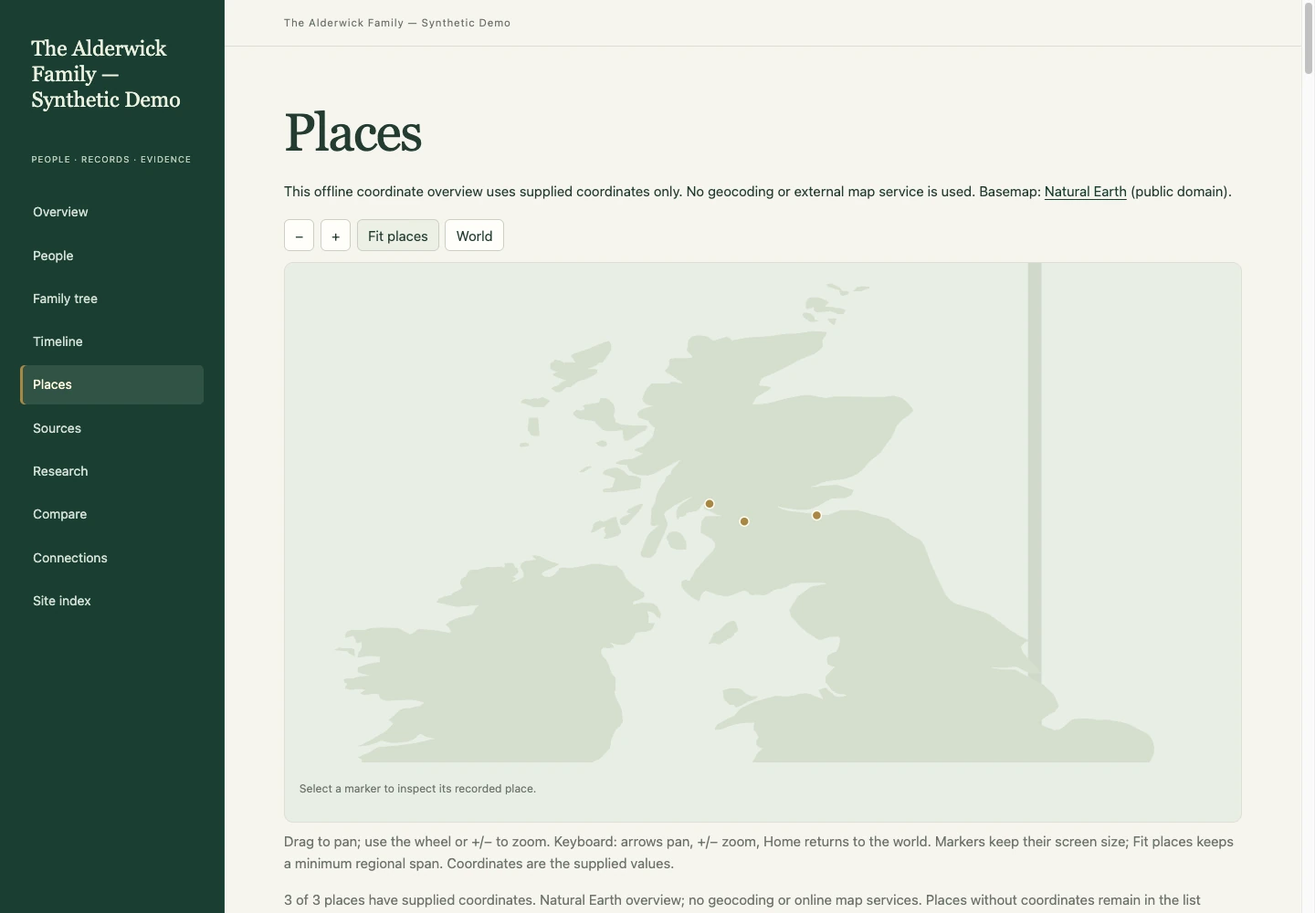
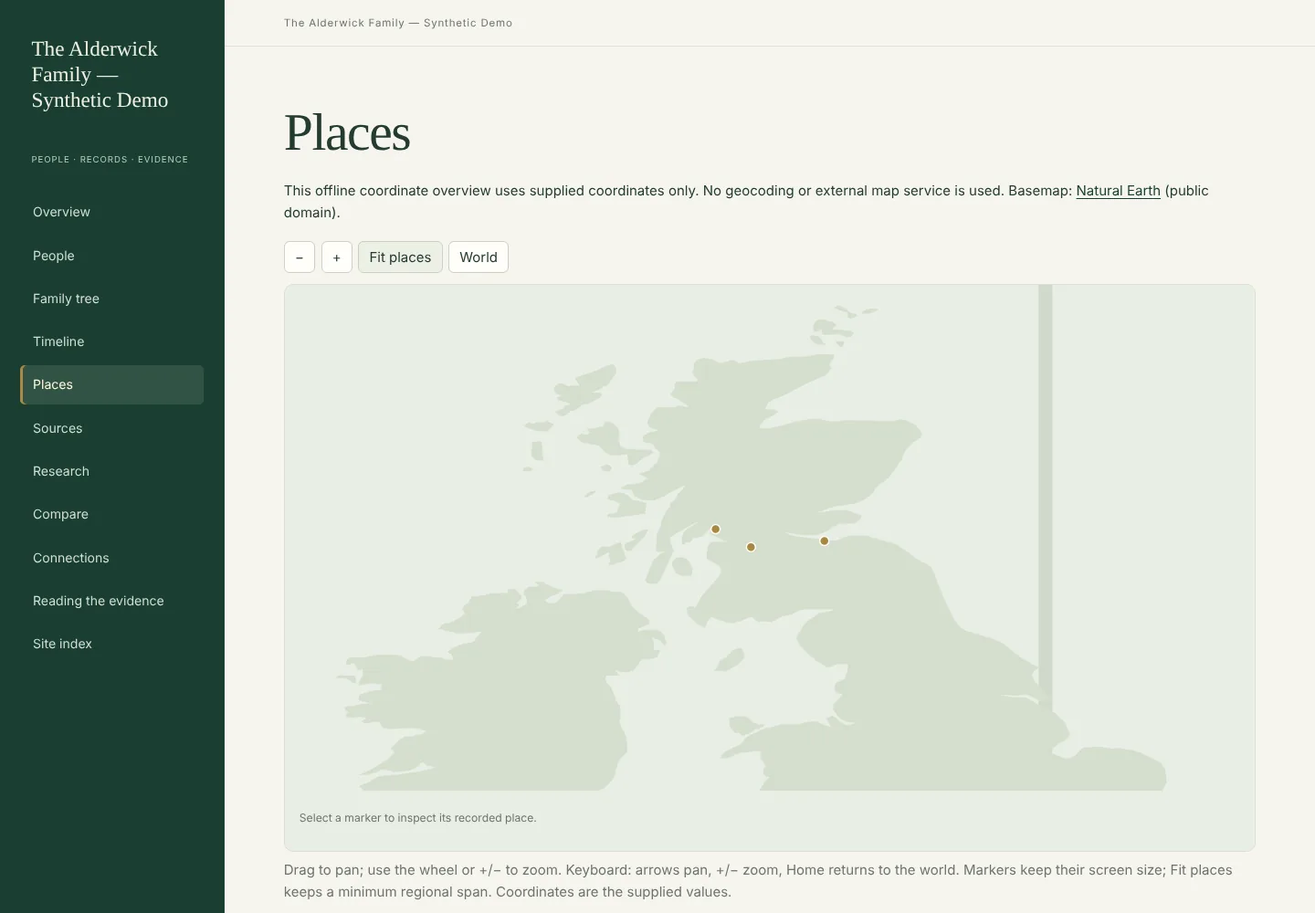
docs: describe 0.3.0 imports, outputs and screenshots
Document encodings, parent roles, identifiers, the --update/--replace
recovery path, the approximate-date publication margin and the new
site routes and downloads. Refresh README screenshots from the
corrected fictional demo and add dossier and evidence-guide views. CI
now imports a fictional GEDCOM with the installed wheel and checks
that the source distribution ships examples and images. Version 0.3.0.

Claude-Session: https://claude.ai/code/session_01XeMQC8PZDPeMtLwTfRoNKi

diff --git a/docs/imports.md b/docs/imports.md
@@ -1,6 +1,6 @@
 # Importing a tree
 
-The high-level `genealogy import FILE` command accepts an explicitly selected local file, at most 32 MiB, encoded as UTF-8 (a UTF-8 BOM is accepted). `.ged` and `.gedcom` select GEDCOM; `.json` selects OneTree. Use `--format gedcom` or `--format one-tree` when the extension is different.
+`genealogy import FILE` accepts one explicitly selected local file of at most 32 MiB. `.ged` and `.gedcom` select GEDCOM; `.json` selects OneTree. Use `--format gedcom` or `--format one-tree` when the extension is different.
 
 ```sh
 genealogy init my-family --name "Family research"
@@ -8,60 +8,75 @@ genealogy --project my-family import /path/to/tree.ged --publish-deceased
 genealogy --project my-family build
 ```
 
-Imports preserve the original bytes in `private/imports/` with a SHA-256 identity, a bounded report, and private file permissions. The selected case is saved only after parsing and reference validation succeed. Errors do not replace an existing valid case. Different inputs do not silently merge: use an empty project or explicitly choose `--replace`. Identical bytes and review choices are a no-op.
+Imports keep the original bytes in `private/imports/` with a SHA-256 identity, a bounded report and private file permissions. The case is saved only after parsing and reference validation succeed, so a failed import never replaces a valid case. Identical bytes with the same review choices are a no-op.
+
+## Importing again
+
+| You have | Command | What happens |
+| --- | --- | --- |
+| An empty project | `import FILE` | The tree becomes the case |
+| A newer export of the **same** tree, plus research you added | `import FILE --update` | Records created by earlier imports of that format are replaced; findings, questions, sources and other records you added are kept |
+| A different tree, or you want to start again | `import FILE --replace` | Every record in the case is replaced |
+
+Before `--update` or `--replace` changes anything, the previous case is copied to `private/imports/backups/<case>-<time>.json`. To recover, copy that file back to `cases/<case>.json`.
+
+`--update` refuses, and changes nothing, when research you kept would point at a person or record that the new export no longer contains, or when one of your record IDs collides with a newly imported ID. The error lists the references. Correct them, restore the person in your tree program, or use `--replace`. Edits made directly to previously imported records are replaced by the new export; put lasting research in your own records rather than editing imported ones. Identity across exports relies on the exporter keeping its record identifiers (`@I12@`, WikiTree IDs): an export that renumbers everyone is a different tree.
 
 ## GEDCOM
 
-The importer supports common GEDCOM 5.5/5.5.1 and GEDCOM 7 text structures; this is a useful subset, not a claim of complete standard conformance.
+The importer supports common GEDCOM 5.5, 5.5.1 and 7 structures. This is a useful subset, not a claim of complete conformance.
 
-- `INDI` names and aliases, sex, birth, death, burial, baptism/christening, residence and occupation fields supported by the parser.
-- `FAM` partners, child → parent relationships, and marriage events.
-- Event dates retained as supplied, including approximate/range qualifiers; supplied place labels and valid latitude/longitude.
-- Source records, source titles/repositories, individual and event citations with page locators.
-- Notes and continuation lines retained privately; source quotations/transcriptions are not automatically published.
-- Missing referenced people or sources are reported; unavailable relatives are not invented.
-- Privacy restrictions and explicit living flags remain protected. Imported relationship confidence stays unassessed.
+**Character sets.** The file's `HEAD.CHAR` declaration is followed: UTF-8 (with or without a byte-order mark), UNICODE/UTF-16 (with or without a BOM), ANSI (Windows-1252), ANSEL, ASCII, MACINTOSH and ISO-8859-1/-15. ANSEL combining accents are moved after their letters and normalised, so accented names are not garbled. A file that declares a legacy set but is actually valid UTF-8 is read as UTF-8 with a warning. Bytes that cannot be decoded stop the import with the line number; nothing is guessed. Windows (CRLF), Unix and classic Mac (CR) line endings all work.
 
-Use `--publish-deceased` only after reviewing the tree. Add `--publish-reviewed-sources` only after reviewing linked bibliographic metadata and locators. Neither option promotes full source text, private notes, or licensed records. See [publication rules](privacy.md).
+**People and names.** Each `NAME` keeps its displayed value and, separately, its given name and surname (`GIVN`/`SURN` or the `/surname/` slashes), so the site can browse by surname. Name types, `NICK`, `_MARN` married names, `_AKA` and `ROMN`/`FONE`/`TRAN` variants are kept. `SEX` is kept as an unassessed claim.
 
-ANSEL/legacy encodings, GEDZIP archives, embedded media, proprietary custom tags, and full standard-level round-trip fidelity are outside this release. Re-export as UTF-8 plain GEDCOM. The private original file retains unsupported content for later inspection.
+**Death evidence.** A `DEAT`, `BURI` or `CREM` record (other than `DEAT N`) marks the person deceased. `_LIVING Y` marks them living and wins over any other signal.
+
+**Events.** Birth, christening, baptism, death, burial, cremation, residence, occupation, census, emigration, immigration, naturalisation, probate, will, adoption, education, graduation, retirement, ordination, confirmation, title and generic `EVEN`/`FACT` events. Family events: marriage, banns, licence, contract, settlement, engagement, divorce and annulment. Dates are kept exactly as supplied, including `ABT`, `BET … AND …`, Julian `@#DJULIAN@` and dual years.
+
+**Families and parent roles.** `FAM` partners become one couple; each `CHIL` gets one parent link per partner. The nature of each link is kept rather than flattened: `FAMC.PEDI` (birth, adopted, foster, sealing), Family Tree Maker/Legacy `_FREL`/`_MREL` (Natural, Step, Adopted …) and `ADOP.FAMC`. A link with no stated nature is a recorded parent of unstated kind, not assumed to be biological. GEDCOM 7 `FAMC.STAT DISPROVEN` marks the link disproved and keeps it out of publication; `CHALLENGED`/`PROVEN` are kept as the tree's own mark.
+
+**Identifiers.** `_UID`, `UID`, `REFN` (with `TYPE`), `EXID`, `AFN`, `_FSFTID` (FamilySearch) and `WWW` are kept as private external identifiers.
+
+**Sources and citations.** `SOUR` records keep title, `AUTH` author, `PUBL` publication details, repository name (`REPO`, resolved through repository records) and call number. Citations keep the `PAGE` locator and `DATA.TEXT` quotation. A `QUAY` grade is recorded with its meaning in the private evidence assessment, never as this project's confidence.
+
+**Notes.** `NOTE` and GEDCOM 7 `SNOTE` (inline or shared) are kept privately and never published by the import review.
+
+**Repairs and diagnostics.** Some exporters, including WikiTree's, write raw line breaks inside long notes. A line that cannot be a GEDCOM line and follows text is kept as continued text, and the import reports how many lines were repaired. Missing referenced people or sources are reported and omitted; `@VOID@` pointers are treated as deliberately empty. Invalid coordinates are reported and dropped, never kept or guessed. Every structure the importer does not interpret is counted in a warning (for example `INDI._MILT×16`) and remains only in the private original file. Government identifiers such as `SSN`/`IDNO` are never imported.
+
+Outside this release: GEDZIP archives, embedded media (`OBJE`), source templates, `ASSO` associations, LDS ordinances and full round-trip fidelity. The private original file keeps them.
 
 ## OneTree JSON
 
-Recognised shapes include:
+Recognised shapes include `{"data": {"Profile-1": {...}}}` (the WikiTree OneTree export), a profile list, a dictionary keyed by profile ID, and a `people`/`relationships` container:
 
 ```json
 {
   "data": {
     "Example-1": {
-      "Name": "Example-1",
-      "Id": 101,
-      "FirstName": "Invented",
-      "LastNameAtBirth": "Example",
-      "BirthDate": "1800-01-01",
-      "DeathDate": "1880-01-01",
-      "BirthLocation": "Fictional Harbour",
-      "Privacy": 60,
-      "Father": 102
-    },
-    "Example-2": {
-      "Name": "Example-2",
-      "Id": 102,
-      "FirstName": "Another",
-      "LastNameAtBirth": "Example",
-      "DeathDate": "1840",
-      "Privacy": 60
+      "Name": "Example-1", "Id": 101, "FirstName": "Invented", "MiddleName": "Mae",
+      "LastNameAtBirth": "Example", "LastNameCurrent": "Married",
+      "BirthDate": "1800-00-00", "DeathDate": "1880-03-00",
+      "DataStatus": {"BirthDate": "guess", "Father": "10"},
+      "BirthLocation": "Fictional Harbour", "Privacy": 60, "Father": 102,
+      "Spouses": [{"Id": 103, "marriage_date": "1822-00-00", "marriage_location": "Invented Chapel"}]
     }
   }
 }
 ```
 
-A profile list, a dictionary keyed by profile ID, and a `people`/`relationships` container are also accepted. Provider numeric IDs resolve parent references to the same stable person identities. Imported spouses and children are reconciled without fabricating missing people. Name variants, vital dates/places, supplied coordinates, privacy flags and explicit relationship assessments are normalised where supported. Publication review resets imported relationship confidence to unassessed.
+- WikiTree `YYYY-00-00` placeholders become `YYYY` or `YYYY-MM`; `0000-00-00` means no date. `DataStatus` qualifiers are kept: guess → `ABT`, before → `BEF`, after → `AFT`.
+- `DataStatus` parent marks are kept as the tree's statement: 10 → tree-marked uncertain, 20 → confident, 30 → DNA confirmed, 5 → non-biological (also recorded as the link's nature). None raises the project's confidence.
+- Given names include `MiddleName`; married (`LastNameCurrent`), other (`LastNameOther`) and `Nicknames` names are kept.
+- A couple listed from both spouses' profiles is one relationship, and spouse marriage dates/places become one marriage event. A spouse marked `do_not_display` is imported privately and never published.
+- `IsLiving` 1/0 and explicit `living` flags are respected. Numeric `Privacy` below 50 is restricted.
+- Relatives outside the export are summarised in one warning and omitted; no person is ever created to complete a link.
+- Biography text is retained privately. Arbitrary WikiTree markup is not converted into independently verified citations.
 
-The schema is based on WikiTree/OneTree-style exports, not every unrelated product named “OneTree”. Some products use zipped archives or different JSON structures. Unknown schemas produce a useful import error rather than a guessed tree. Arbitrary biography markup and embedded source text are not parsed into independently assessed citations. Full profile text is retained in private provenance/original input, not automatically published.
+The schema follows WikiTree/OneTree-style exports, not every unrelated product called "OneTree". Unknown structures produce an import error rather than a guessed tree. UTF-8 is expected; a UTF-8 or UTF-16 byte-order mark is accepted.
 
-## Import reports and missing information
+## Reports
 
-The command prints people/record counts, public-review counts and up to 20 warnings; reports remain under `private/imports/`. Review warnings before publishing. A place name without coordinates is still searchable, but cannot be placed accurately on the coordinate map. No geocoding or online lookup happens automatically.
+The command prints counts, public-review counts and up to 20 warnings; the full report stays under `private/imports/`. Review warnings before publishing. A place without coordinates is still searchable but cannot be mapped. No geocoding or online lookup happens.
 
-Try [small edge-case fixtures](../examples/imports/README.md) or the [larger fictional family](../examples/demo/README.md). Never use real living-person data in a bug report; reduce it to a fictional example with the same structure.
+Try the [small edge-case fixtures](../examples/imports/README.md) or the [larger fictional family](../examples/demo/README.md). Never put real living-person data in a bug report; reduce it to a fictional example with the same structure.

diff --git a/README.md b/README.md
@@ -4,15 +4,15 @@
 
 **Turn a GEDCOM or OneTree export into a searchable family-history website.**
 
-[![CI](https://github.com/glasgowm148/genealogy-research-workbench/actions/workflows/ci.yml/badge.svg)](https://github.com/glasgowm148/genealogy-research-workbench/actions/workflows/ci.yml) · [Download v0.2.0](https://github.com/glasgowm148/genealogy-research-workbench/releases/tag/v0.2.0) · [MIT](LICENSE)
+[![CI](https://github.com/glasgowm148/genealogy-research-workbench/actions/workflows/ci.yml/badge.svg)](https://github.com/glasgowm148/genealogy-research-workbench/actions/workflows/ci.yml) · [Releases](https://github.com/glasgowm148/genealogy-research-workbench/releases) · [MIT](LICENSE)
 
 [Get started](#get-started) · [Take a look](#what-you-can-build) · [Import formats](docs/imports.md) · [Privacy](docs/privacy.md) · [Developer guide](docs/development.md)
 
 </div>
 
-Bring your own family tree. Build a site with people pages, an interactive whole tree, family branches, timelines, places, sources, comparisons, and connection paths. Keep the underlying research in portable, source-aware records that distinguish an imported assertion from an assessed conclusion.
+Bring your own family tree. Build a site with people pages, an interactive whole tree, family branches, timelines, places, sources, comparisons and connection paths. Keep the underlying research in portable, source-aware records that distinguish an imported assertion from an assessed conclusion.
 
-Run everything on your own computer. The toolkit has **no runtime dependencies**, makes **no network requests during import or builds**, and generates ordinary HTML, CSS, JavaScript, and data files. You choose whether and where to publish them.
+Run everything on your own computer. The toolkit has **no runtime dependencies**, makes **no network requests during import or builds**, and generates ordinary HTML, CSS, JavaScript and data files. You choose whether and where to publish them.
 
 ## What you can build
 
@@ -20,23 +20,27 @@ Run everything on your own computer. The toolkit has **no runtime dependencies**
 
 <table>
 <tr>
-<td width="50%" valign="top"><h3>Explore the whole tree</h3><img src="docs/images/tree.webp" alt="Interactive family tree with whole-tree, focus-family and branch views" width="100%"><p>Pan and zoom through every public person, narrow the birth-year range, focus on a family, and inspect the confidence attached to a recorded relationship.</p></td>
-<td width="50%" valign="top"><h3>Find the person behind a name</h3><img src="docs/images/people.webp" alt="Searchable catalogue with dates, relatives, places, evidence and sorting" width="100%"><p>Search names, relatives, events, and places. Sort and paginate the catalogue, then open a dossier with family links, life events, citations, and research.</p></td>
+<td width="50%" valign="top"><h3>Explore the whole tree</h3><img src="docs/images/tree.webp" alt="Family focus view showing four generations, with descendants to the right of the selected ancestor" width="100%"><p>Pan and zoom through every public person, focus on a family or browse branch cards. Uncertain links are dashed, and every link keeps its recorded label.</p></td>
+<td width="50%" valign="top"><h3>Find the person behind a name</h3><img src="docs/images/people.webp" alt="Searchable catalogue filtered to one surname, with life dates" width="100%"><p>Search names, relatives, events and places; filter by surname, year and evidence; sort and paginate.</p></td>
 </tr>
 <tr>
-<td width="50%" valign="top"><h3>Follow lives through time and place</h3><img src="docs/images/places.webp" alt="Offline overview of places using coordinates supplied in the imported data" width="100%"><p>Browse a filterable event timeline and an offline coordinate map. Places without coordinates remain in the place list; the toolkit does not guess their positions.</p></td>
-<td width="50%" valign="top"><h3>Keep the evidence in view</h3><img src="docs/images/research.webp" alt="Research notebook with distinct claims, citations, assessments and open questions" width="100%"><p>Sources, claims, evidence assessments, hypotheses, questions, and findings stay distinct. Compare two people or trace a recorded relationship path.</p></td>
+<td width="50%" valign="top"><h3>Read a family at a glance</h3><img src="docs/images/dossier.webp" alt="Person dossier with parents, spouse and marriage, children and siblings" width="100%"><p>Each dossier lists parents, partners with their marriages, children and siblings. Step, adoptive and other recorded roles stay visible. When more parents are recorded than one person can have by birth, the dossier flags them as competing parent records.</p></td>
+<td width="50%" valign="top"><h3>Follow lives through time and place</h3><img src="docs/images/places.webp" alt="Offline overview of places using coordinates supplied in the imported data" width="100%"><p>Browse a filterable event timeline and an offline coordinate map. Places without coordinates stay in the place list; the toolkit never guesses their positions.</p></td>
+</tr>
+<tr>
+<td width="50%" valign="top"><h3>Keep the evidence in view</h3><img src="docs/images/research.webp" alt="Research notebook with claims, citations, assessments, hypotheses and open questions" width="100%"><p>Sources, claims, evidence assessments, hypotheses, questions and findings stay distinct, with outstanding work listed first.</p></td>
+<td width="50%" valign="top"><h3>Say exactly how sure you are</h3><img src="docs/images/evidence.webp" alt="Reader's guide to confidence, claim status and relationship-role labels" width="100%"><p>One vocabulary covers every page. An imported link reads "Unassessed tree link", and a tree's own mark reads "tree-marked uncertain". Every label links to a reader's guide.</p></td>
 </tr>
 </table>
 
-The screenshots use the [fully fictional Alderwick demo](examples/demo/README.md), captured on 19 October 2026. They contain no real family data. Core people, source, and research content remains readable with JavaScript disabled; interactive tools use local JavaScript.
+The screenshots use the [fully fictional Alderwick demo](examples/demo/README.md), captured on 19 October 2026 at 1440 × 1000. They contain no real family data. Core people, source, and research content remains readable with JavaScript disabled; interactive tools use local JavaScript.
 
 ## Get started
 
 You need **Python 3.11 or later**. From a downloaded or cloned toolkit checkout:
 
 ```sh
-git clone --branch v0.2.0 https://github.com/glasgowm148/genealogy-research-workbench.git
+git clone https://github.com/glasgowm148/genealogy-research-workbench.git
 cd genealogy-research-workbench
 python3 -m venv .venv
 source .venv/bin/activate
@@ -76,7 +80,14 @@ Open [localhost:8000](http://localhost:8000/). For OneTree, use the same command
 genealogy --project my-family import /path/to/one-tree.json --publish-deceased
 ```
 
-Use a separate empty project for a different export. Import refuses to overwrite a populated case unless you explicitly pass `--replace`; an identical import with the same review options is a no-op. Omitting publication options keeps the imported records private, so the public site can be empty. Your original input is preserved privately and never modified.
+Got a newer export of the same tree? `import FILE --update` refreshes the imported records and keeps the research you added: findings, questions, sources and notes. It stops, changing nothing, if that research would point at someone the new export no longer contains. `--replace` starts again from the new file. Both keep a private backup of the previous case first. An identical import with the same review options does nothing. Omitting publication options keeps the imported records private, so the public site can be empty. Your original input is preserved privately and never modified.
+
+| Supported input | Details |
+| --- | --- |
+| GEDCOM 5.5, 5.5.1 and 7 (`.ged`, `.gedcom`) | Declared UTF-8, UTF-16, ANSI, ANSEL, ASCII and Mac encodings; names with surname parts; about 40 event types; parent roles (step, adopted, foster); identifiers; sources with author, publication and repository; citations with locators; supplied coordinates |
+| WikiTree OneTree JSON (`.json`) | Profiles, parents, spouses and marriages; WikiTree `1850-00-00` dates with guess/before/after qualifiers; the tree's own parent marks; privacy levels |
+
+Everything the importer does not interpret is counted in the import report and kept in the private original. See [import formats](docs/imports.md).
 
 ### Try it before importing your family
 
@@ -98,7 +109,8 @@ The demo has 42 invented people, four generations, sources, uncertainty, and res
 | Timelines and place lists; maps when coordinates are supplied | Reviewed location coordinates and archive research |
 | Comparison and shortest recorded connection paths | Resolution of namesakes and competing hypotheses |
 | GEDCOM bibliography and citation locators after explicit review | Source transcriptions, images, and record-by-record analysis |
-| Public JSON, NDJSON/CSV exports and place GeoJSON | Derived DNA findings supplied separately and reviewed |
+| Step/adoptive roles and the tree's own uncertainty marks, shown as such | Assessed confidence for each relationship, with its reasoning |
+| Public JSON, CSV, GeoJSON and a filtered GEDCOM download | Derived DNA findings supplied separately and reviewed |
 
 An export supplies recorded tree assertions. It cannot manufacture missing sources, prove parentage, recover photographs, or infer DNA results. OneTree biography text is retained privately; arbitrary WikiTree markup is not converted into independently verified citations. [Supported formats and limitations](docs/imports.md) describe exactly what is imported.
 
@@ -113,6 +125,7 @@ genealogy --project my-family record show gedcom:person:I1
 genealogy --project my-family report --format markdown --output research-brief.md
 genealogy --project my-family export json --output dist/research.json
 genealogy --project my-family export csv --output dist/research.csv
+genealogy --project my-family export gedcom --output dist/public-tree.ged
 genealogy --project my-family bundle --output private/research-bundle
 genealogy --project my-family bundle --output private/research-bundle --verify
 ```

diff --git a/docs/deployment.md b/docs/deployment.md
@@ -9,7 +9,12 @@
 description = "Our family history, its records, and the questions still open."
 ```
 
-The title/description are public. Keep private personal information out of them. `[project].case_directory` and `default_case` select the case; use the CLI `--case` option for a different one. Existing catalogue/maps/timelines format/output settings control compatible standalone exports as well as the cohesive website built by the CLI.
+The title/description are public. Keep private personal information out of them. When the site will live at a known address, set it so the build also writes an XML sitemap and canonical links:
+
+```toml
+[site]
+base_url = "https://example.org/family/"
+``` `[project].case_directory` and `default_case` select the case; use the CLI `--case` option for a different one. Existing catalogue/maps/timelines format/output settings control compatible standalone exports as well as the cohesive website built by the CLI.
 
 ## Build and inspect
 
@@ -24,21 +29,26 @@ python -m http.server 8000 --bind 127.0.0.1 --directory my-family/dist
 | Route | Contents |
 | --- | --- |
 | `index.html` | Overview, counts and research entry points |
-| `catalogue.html` | Search, evidence/date filters, sort and pagination |
-| `people/p-<hash>.html` | Stable person dossier with family, events and sources |
+| `catalogue.html` | Search, surname, year and evidence filters, sort and pagination |
+| `people/p-<hash>.html` | Stable person dossier: family (parents, partners, children, siblings), events, claims, sources and research |
 | `tree.html` | Whole-tree canvas, family focus and branch cards |
 | `timeline.html` | Recorded life events with filters |
 | `places.html` | Place/event list and supplied-coordinate map |
 | `sources.html` | Bibliography and citations |
-| `research.html` | Claims, evidence, hypotheses, questions and findings |
+| `research.html` | Claims, evidence, hypotheses, questions and findings, outstanding work first |
 | `compare.html` | Side-by-side person comparison |
 | `connections.html` | Shortest path through recorded relationships |
+| `evidence.html` | Reader's guide to every confidence, status and relationship label |
 | `sitemap.html` | Human-readable routes, person index and downloads |
-| `data/` | Public JSON, CSV, GeoJSON and route index |
+| `sitemap.xml` | Search-engine sitemap (only when `site.base_url` is set) |
+| `data/site-data.js` | The public dataset, shared by every interactive page |
+| `data/` | Public JSON, CSV, GeoJSON, GEDCOM 5.5.1 (`public-tree.ged`) and route index |
+
+Every page and download is generated from the same privacy-filtered projection, so a withheld person is absent from HTML, search, maps, data files, the GEDCOM download and the sitemap alike. Labels such as "Unassessed tree link" or "tree-marked uncertain" link to `evidence.html`, which explains them.
 
 A connection follows stored relationships and their uncertainty; it is not proof of kinship. The coordinate map uses a bundled low-resolution Natural Earth basemap; it is not a street map. Missing coordinates remain missing. Approximate dates retain their supplied text.
 
-All site assets are local and links are relative. Test both desktop and mobile before publication. Core records remain readable without JavaScript, while filtering, graph exploration, comparison and connection tools need it. Serving over HTTP is recommended; local-file navigation also uses relative links without fetching private cases.
+All site assets are local and links are relative. Test both desktop and mobile before publication. Core records remain readable without JavaScript, while filtering, graph exploration, comparison and connection tools need it. The interactive pages load one shared `data/site-data.js` script, so they also work when the folder is opened directly from disk (`file://`) and the browser caches the data once for the whole site.
 
 ## Rebuilds
 

diff --git a/CHANGELOG.md b/CHANGELOG.md
@@ -1,5 +1,34 @@
 # Changelog
 
+## 0.3.0 — unreleased
+
+Import
+- GEDCOM follows its `HEAD.CHAR` declaration: UTF-8/UTF-16 with or without BOM, ANSI (Windows-1252), ANSEL, ASCII, MACINTOSH and ISO-8859; undecodable bytes are reported by line.
+- Raw line breaks inside long notes (as written by WikiTree's GEDCOM export) are kept as continued text and reported instead of rejecting the file.
+- Parent links keep their supplied nature (`PEDI`, `_FREL`/`_MREL`, `ADOP`, WikiTree non-biological) in `Relationship.pedigree`; the tree's own marks (WikiTree uncertain/confident/DNA confirmed, GEDCOM 7 `STAT`) in `Relationship.tree_status`, never raising confidence. `DISPROVEN` links are disproved and not published.
+- Names keep `given`/`surname` parts, nicknames, married and other names; GEDCOM identifiers (`_UID`, `REFN`, `EXID`, `_FSFTID`, `AFN`, `WWW`), source `AUTH`/`PUBL`/call numbers, citation `QUAY`, GEDCOM 7 `SNOTE` and about 40 event types are imported. Unsupported structures are counted in one warning; `SSN`/`IDNO` are never imported.
+- Burial or cremation records mark a person deceased. Invalid coordinates are reported and dropped rather than failing the import.
+- OneTree: WikiTree `YYYY-00-00` dates and DataStatus guess/before/after qualifiers, `MiddleName`, `LastNameOther`, `Nicknames`, `IsLiving`, one relationship per couple, marriage events from spouse rows, hidden spouses kept private, one summary warning for relatives outside the export.
+- `import --update` refreshes a previous import of the same tree and keeps research added to the case, refusing without changes if that research would be orphaned. `--update` and `--replace` first back up the previous case privately.
+
+Publication
+- An approximate birth (`ABT`/`EST`/`CAL`) is treated as up to ten years later for the 120-year rule; open-ended dates still need review. `genealogy.publication.is_historical_birth` exposes the rule.
+- The recorded sex of eligible people is published as an unassessed tree assertion.
+
+Website
+- Dossiers have a family section (parents, partners and marriages, children, siblings) with roles, labels and a competing-parent-records notice.
+- One labelled evidence vocabulary (`genealogy.labels`) and a reader's guide, `evidence.html`.
+- Interactive pages share one `data/site-data.js` instead of embedding the dataset in every page (works from `file://`).
+- Surname filter and column in the catalogue; outstanding research listed first.
+- Public GEDCOM 5.5.1 download (`data/public-tree.ged`, `export gedcom`), and `sitemap.xml`/canonical links when `site.base_url` is set.
+
+Fixes
+- The fictional demo stored parent links from parent to child, contrary to the documented child → parent direction, so its tree drew descendants as ancestors. It is regenerated.
+- Browser tests no longer assume a macOS Chrome path (`GENEALOGY_BROWSER_EXECUTABLE`).
+- `genealogy.dates` adds `year_of` and `wikitree_date`; sorting understands Julian/dual years, `circa`/`c.`, interpreted dates and month names.
+
+Compatibility: cases gain optional fields (`Name.given/surname`, `Relationship.pedigree/tree_status`, `Source.author/publication`). Older 0.2 readers cannot load cases written with them. GEDCOM-imported people now record `living` as `"deceased"` rather than `false`. OneTree spouse relationship IDs are now one per couple, so re-import with `--replace` (not `--update`) if research refers to the old per-profile spouse IDs.
+
 ## 0.2.0 — 19 October 2026
 
 - Standalone MIT-licensed package, Python 3.11+, wheel/source distribution metadata and CI.

diff --git a/examples/imports/README.md b/examples/imports/README.md
@@ -2,8 +2,8 @@
 
 All people, places and records are invented. The living example demonstrates exclusion, and is not a real person.
 
-`fictional-family.ged` uses Unicode GEDCOM 7 syntax, shared/inline notes, continued text, event-level source citations, supplied coordinates, a marriage, occupation and a restricted living person. The same record/tag layout is accepted from UTF-8 GEDCOM 5.5 exports. Legacy ANSEL/ANSI bytes require conversion to UTF-8 first. Dates remain supplied strings, including ranges and uncertainty; coordinates are validated, never geocoded. No network requests occur.
+`fictional-family.ged` uses Unicode GEDCOM 7 syntax, shared/inline notes, continued text, event-level source citations, supplied coordinates, a marriage, occupation and a restricted living person. The same record/tag layout is accepted from GEDCOM 5.5/5.5.1 exports in any declared UTF-8, UTF-16, ANSI, ANSEL, ASCII or Mac encoding; `tests/test_import_variations.py` generates fictional variants of each. Dates remain supplied strings, including ranges and uncertainty; coordinates are validated, never geocoded. No network requests occur.
 
 `fictional-onetree.json` uses `{ "data": { "provider-id": profile } }`. The importer also accepts a plain profile dictionary, a profile list, single rows, or `{ "people": [...], "relationships": [...] }`. Names, common birth/death fields, sex assertions, biographies, aliases, supplied birth/death coordinates, father/mother, spouses and children are mapped. Provider `Name`/`profile_id` retains the established external identity contract; numeric IDs remain aliases for relationship resolution. Generic lowercase `name` is display text, and explicit `id` values identify those people. Relationships point from child to parent. Missing relatives are omitted with warnings, never invented. Provider confidence remains unassessed; a provider's `documented` label is retained in import metadata and mapped to neutral `unknown` confidence.
 
-Imports default to private. Explicit provider privacy/access fields remain effective; legacy `Privacy >= 50` retains its public access mapping, while living/unknown status still prevents default public export. GEDCOM `RESN` blocks publication eligibility. Sources and citations never make an imported assertion independently documented. OneTree source/citation schemas, arbitrary custom GEDCOM tags, media attachments, GEDZIP and non-UTF-8 encoding are not interpreted. Original observations remain transient adapter records; portable cases retain safe import metadata and normalized entities, not the full original file. Raw genetic payloads are rejected.
+Imports default to private. Explicit provider privacy/access fields remain effective; legacy `Privacy >= 50` retains its public access mapping, while living/unknown status still prevents default public export. GEDCOM `RESN` blocks publication eligibility. Sources and citations never make an imported assertion independently documented. OneTree source/citation schemas, arbitrary custom GEDCOM tags, media attachments and GEDZIP are not interpreted; unsupported GEDCOM structures are counted in the import report. Original observations remain transient adapter records; portable cases retain safe import metadata and normalized entities, not the full original file. Raw genetic payloads are rejected.

diff --git a/docs/privacy.md b/docs/privacy.md
@@ -9,10 +9,10 @@ High-level file imports are private by default, including provider records label
 | Option | Permits | Keeps private |
 | --- | --- | --- |
 | No publication options | A private research case | All imported records |
-| `--publish-deceased` | Adapter-vetted basic facts about deceased/historical people, safe linked events, places and relationships | Living/unknown-status people, explicit private/restricted/licensed records, notes, descriptions, source text |
-| Also `--publish-reviewed-sources` | Reviewed source titles/repositories/safe URLs and citation locators connected to eligible public facts | Quotations, transcriptions, access notes, protected/licensed sources and sources linked only to withheld people |
+| `--publish-deceased` | Adapter-vetted basic facts about deceased/historical people: names, recorded sex, safe linked events, places and relationships (with their supplied nature, such as step or adoptive) | Living/unknown-status people, explicit private/restricted/licensed records, disproved links, hidden spouses, notes, descriptions, identifiers, source text |
+| Also `--publish-reviewed-sources` | Reviewed source titles, authors, publication details, repositories, safe URLs and citation locators connected to eligible public facts | Quotations, transcriptions, access notes, quality grades, protected/licensed sources and sources linked only to withheld people |
 
-A person is eligible when explicitly deceased, or when an unambiguous supported birth-year value is more than 120 years old and no explicit living flag overrides it. Date forms the review helper cannot assess safely require manual review. This is a publication heuristic, not proof of a death date. Explicit restrictions always take precedence. Source review requires deceased-facts review.
+A person is eligible when explicitly deceased (a recorded death, burial or cremation, or the provider's flag), or when a supported birth date is assuredly more than 120 years ago and no explicit living flag overrides it. Exact dates and `BEF`/`BET … AND …`/`FROM … TO …` bounds use their upper year. An approximate birth (`ABT`, `EST`, `CAL`, `circa`) is treated as up to ten years later: "about 1800" counts as 1810. Open-ended (`AFT`) and free-text dates require manual review. This is a publication heuristic, not proof of death. Explicit restrictions always take precedence. Source review requires deceased-facts review.
 
 Imported relationships remain unassessed. A source association remains an asserted association, even when its bibliography is public. Neither import nor publication verifies genealogy.
 

diff --git a/docs/development.md b/docs/development.md
@@ -18,7 +18,7 @@ Install a built wheel in a separate environment to test the actual distribution:
 
 ```sh
 python3 -m venv /tmp/workbench-wheel
-/tmp/workbench-wheel/bin/python -m pip install dist/genealogy_research_workbench-0.2.0-py3-none-any.whl
+/tmp/workbench-wheel/bin/python -m pip install dist/genealogy_research_workbench-0.3.0-py3-none-any.whl
 cd /tmp
 /tmp/workbench-wheel/bin/genealogy init wheel-demo --name "Wheel demonstration"
 /tmp/workbench-wheel/bin/genealogy --project wheel-demo build
@@ -34,7 +34,7 @@ python -m playwright install chromium
 make browser-check
 ```
 
-They exercise desktop/mobile routes, search, tree views, comparisons, connections, and real GEDCOM/OneTree uploads. Standard unit tests do not require a browser. CI tests Python 3.11–3.14, builds distributions, smoke-tests an installed wheel outside the source checkout, and runs the separate browser job.
+They exercise desktop/mobile routes, search and surname filters, tree views, family dossiers, the evidence guide, comparisons, connections, opening the built site directly from disk, and real GEDCOM/OneTree uploads through the local server. Set `GENEALOGY_BROWSER_EXECUTABLE` to use an installed Chromium or Chrome instead of Playwright's download. Standard unit tests do not require a browser. CI tests Python 3.11–3.14, builds distributions, smoke-tests an installed wheel outside the source checkout, and runs the separate browser job.
 
 ## Layout
 
